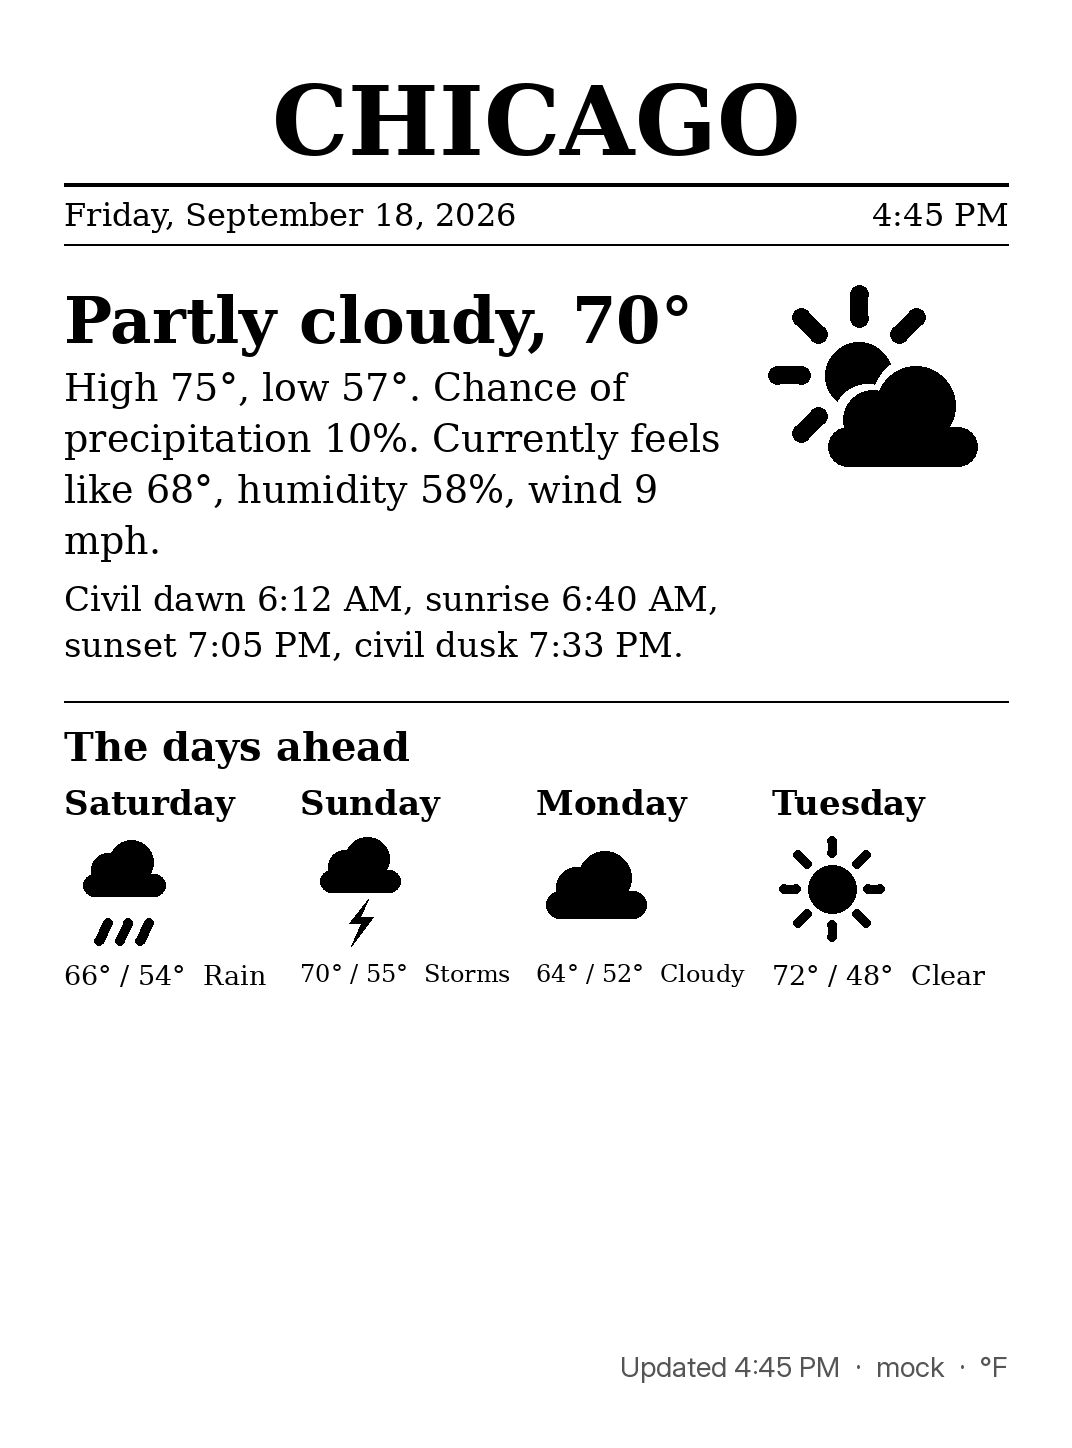
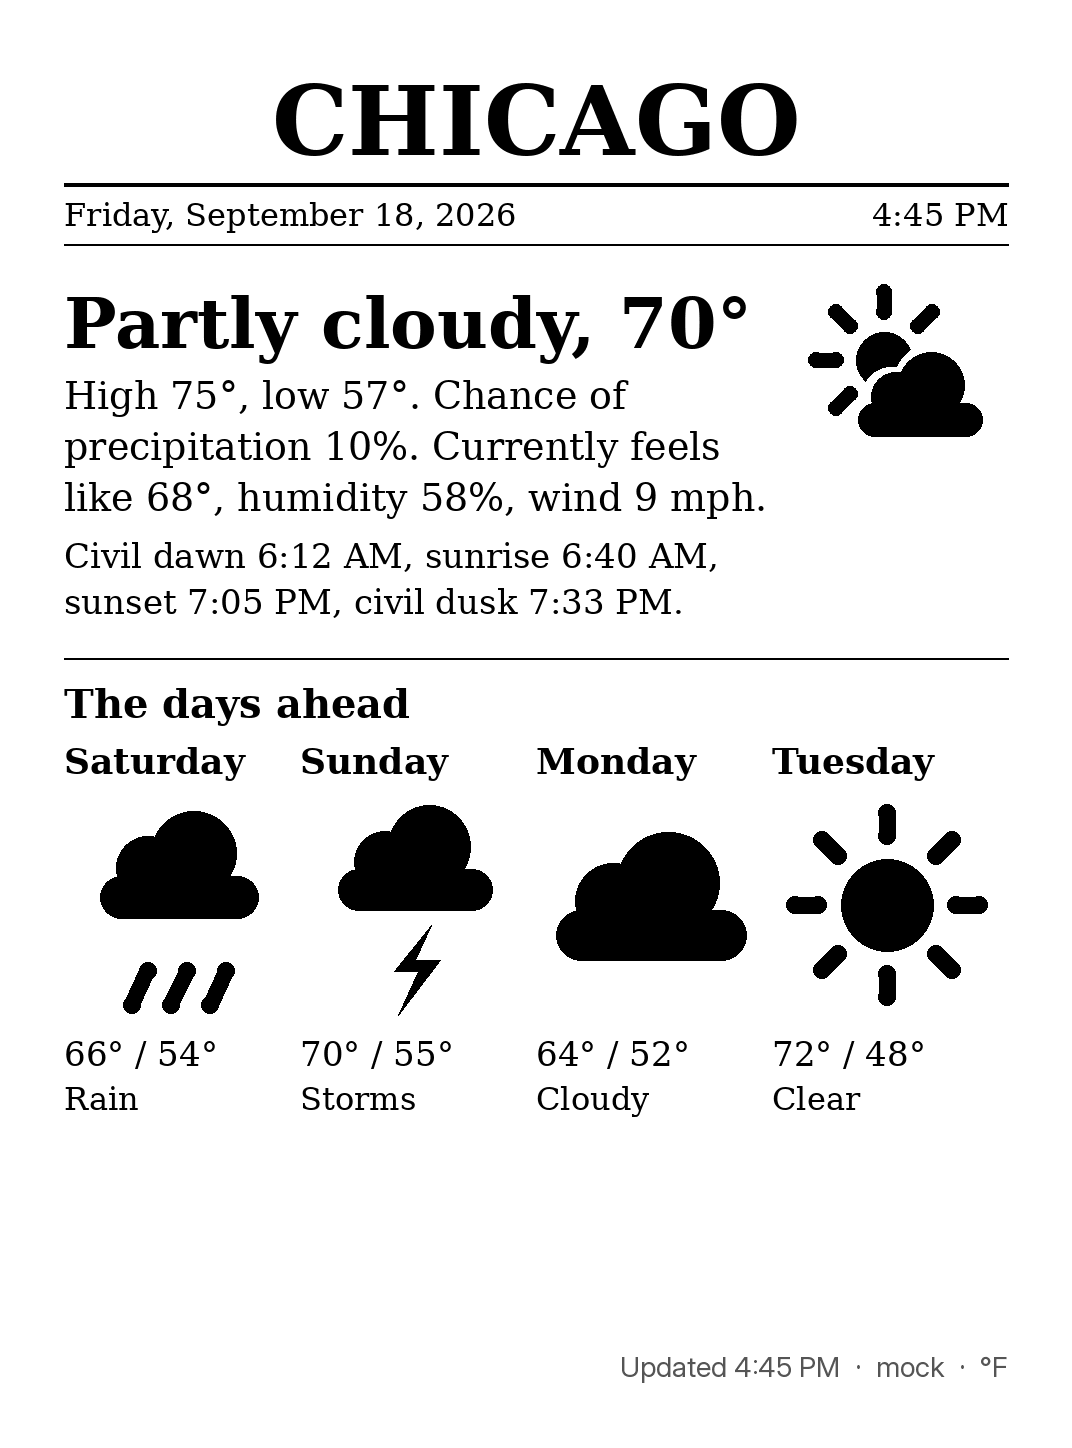
feat(skins): layout pass over weather-station, big-clock, and newspaper (#22)
* feat(skins): layout pass over weather-station, big-clock, and newspaper

weather-station: the metrics as glyph cells (Canvas.metrics_strip) instead
of the label grid, the duplicated "Feels like" line under the temperature
removed, which also uncrowds the arc in landscape. big-clock: the clock
sits higher, the weather strip and the arc take the space below, the
range reads "75° / 57°". newspaper: the "days ahead" icons grow into the
space left in portrait, and each day's range and condition get their own
lines so the columns share one type size. Goldens and README frames for
the three skins regenerated on purpose.

* fix(skins): newspaper day columns keep one line when short; footer-clearance test (review round 1)

In landscape the space under the days-ahead icons is too short for two
text lines, so range and condition share one line there as before; the
two-line layout stays in portrait. A test over every skin and orientation
asserts a white strip above the footer. README roadmap paragraph updated.

---------

diff --git a/src/paperwhite_weather/skins/newspaper.py b/src/paperwhite_weather/skins/newspaper.py
@@ -49,7 +49,7 @@ class NewspaperSkin:
         # Lead story: text column on the left, the icon on the right.
         current = snapshot.current
         today = snapshot.today
-        icon = c.px(280 if c.landscape else 240)
+        icon = c.px(280 if c.landscape else 200)
         text_w = w - icon - c.px(40)
         lead_top = y
         headline = f"{c.condition_label(current.condition)}, {c.temperature(current.temperature)}"
@@ -91,22 +91,45 @@ class NewspaperSkin:
         days = snapshot.daily[1 : _FORECAST_DAYS + 1]
         if days:
             available = c.height - m - c.px(50) - y  # leave room for the footer
-            small = max(c.px(60), min(c.px(120), available - c.px(110)))
+            # Two text lines under the icon need about 160 design px; when the space
+            # left is short (landscape), range and condition share one line instead.
+            two_lines = available >= c.px(60) + c.px(50) + c.px(160)
+            reserved = c.px(50) + (c.px(160) if two_lines else c.px(70))
+            small = max(c.px(60), min(c.px(230), available - reserved))
             column = w / len(days)
             for k, day in enumerate(days):
                 x = m + column * k
                 c.text(
-                    (x, y), f"{day.date:%A}", "serif-bold", 34, anchor="la", max_width=column * 0.95
+                    (x, y), f"{day.date:%A}", "serif-bold", 36, anchor="la", max_width=column * 0.95
                 )
-                c.icon(day.condition, (x, y + c.px(46), x + small, y + c.px(46) + small))
-                c.text(
-                    (x, y + c.px(46) + small + c.px(10)),
-                    f"{c.range_text(day)}  {c.condition_label(day.condition)}",
-                    "serif",
-                    30,
-                    anchor="la",
-                    max_width=column * 0.95,
-                )
+                c.icon(day.condition, (x, y + c.px(50), x + small, y + c.px(50) + small))
+                line_y = y + c.px(50) + small + c.px(14)
+                if two_lines:
+                    c.text(
+                        (x, line_y),
+                        c.range_text(day),
+                        "serif",
+                        34,
+                        anchor="la",
+                        max_width=column * 0.95,
+                    )
+                    c.text(
+                        (x, line_y + c.px(46)),
+                        c.condition_label(day.condition),
+                        "serif",
+                        32,
+                        anchor="la",
+                        max_width=column * 0.95,
+                    )
+                else:
+                    c.text(
+                        (x, line_y),
+                        f"{c.range_text(day)}  {c.condition_label(day.condition)}",
+                        "serif",
+                        30,
+                        anchor="la",
+                        max_width=column * 0.95,
+                    )
         c.footer()
         return c.image
 

diff --git a/src/paperwhite_weather/skins/weather_station.py b/src/paperwhite_weather/skins/weather_station.py
@@ -16,7 +16,7 @@ _FORECAST_DAYS = 4
 
 
 class WeatherStationSkin:
-    """Clock, current conditions, a metrics grid, the sun arc, and the forecast."""
+    """Clock, current conditions, the metrics as glyphs, the sun arc, and the forecast."""
 
     name: ClassVar[str] = "weather-station"
 
@@ -48,15 +48,15 @@ class WeatherStationSkin:
             right_x = m + left_w + gutter
             right_w = c.width - m - right_x
             self._current(c, m, y, left_w)
-            gy = self._grid(c, right_x, y, right_w)
-            ay = c.sun_arc((m, self._current_height(c, y), m + left_w, y + c.px(420)))
+            gy = c.metrics_strip((right_x, y + c.px(10), right_x + right_w, y + c.px(200)))
+            ay = c.sun_arc((m, self._current_height(c, y), m + left_w, y + c.px(430)))
             y2 = max(ay, gy) + c.px(30)
             y2 = c.rule(m, y2, w, LIGHT_GRAY, 2) + c.px(16)
             self._forecast(c, m, y2, w)
         else:
             self._current(c, m, y, w)
             y = self._current_height(c, y) + c.px(20)
-            y = self._grid(c, m, y, w) + c.px(30)
+            y = c.metrics_strip((m, y, c.width - m, y + c.px(200))) + c.px(30)
             y = c.sun_arc((m, y, c.width - m, y + c.px(270))) + c.px(30)
             y = c.rule(m, y, w, LIGHT_GRAY, 2) + c.px(16)
             self._forecast(c, m, y, w)
@@ -81,32 +81,9 @@ class WeatherStationSkin:
             anchor="la",
             max_width=width - icon - c.px(30),
         )
-        c.text(
-            (tx, y + c.px(205)),
-            c.feels_like_text(),
-            "regular",
-            40,
-            fill=DARK_GRAY,
-            anchor="la",
-            max_width=width - icon - c.px(30),
-        )
 
     def _current_height(self, c: Canvas, y: int) -> int:
-        return y + c.px(260)
-
-    def _grid(self, c: Canvas, x: int, y: int, width: int) -> int:
-        """Two columns of label/value cells with the optional metrics. Returns the bottom y."""
-        cells = c.metrics()
-        columns = 2
-        cell_w = width / columns
-        cell_h = c.px(96)
-        for k, (label, value) in enumerate(cells):
-            cx = x + cell_w * (k % columns)
-            cy = y + cell_h * (k // columns)
-            c.text((cx, cy), label, "regular", 30, fill=DARK_GRAY, anchor="la")
-            c.text((cx, cy + c.px(34)), value, "bold", 46, anchor="la", max_width=cell_w * 0.95)
-        rows = (len(cells) + columns - 1) // columns
-        return round(y + cell_h * rows)
+        return y + c.px(215)
 
     def _forecast(self, c: Canvas, x: int, y: int, width: int) -> None:
         """Today and the next days as temperature bars on one scale, down to the footer."""

diff --git a/src/paperwhite_weather/skins/big_clock.py b/src/paperwhite_weather/skins/big_clock.py
@@ -29,7 +29,7 @@ class BigClockSkin:
         # Clock, as large as the width allows, vertically in the upper part.
         clock = c.clock()
         clock_size = 520 if c.landscape else 360
-        clock_y = c.height * (0.36 if c.landscape else 0.30)
+        clock_y = c.height * (0.32 if c.landscape else 0.25)
         used = c.text((c.width / 2, clock_y), clock, "bold", clock_size, anchor="mm", max_width=w)
         c.text(
             (c.width / 2, clock_y + used * 0.78),
@@ -43,7 +43,7 @@ class BigClockSkin:
 
         # Weather strip: icon, temperature, condition, range; the sun arc beside it in
         # landscape, under it in portrait.
-        strip_top = c.height * (0.68 if c.landscape else 0.58)
+        strip_top = c.height * (0.62 if c.landscape else 0.50)
         c.rule(m, strip_top, w, LIGHT_GRAY, 2)
         icon_size = c.px(190)
         icon_top = strip_top + c.px(40)
@@ -68,18 +68,19 @@ class BigClockSkin:
         )
         c.text(
             (x2, icon_top + c.px(80)),
-            c.high_low(today),
+            c.range_text(today),
             "regular",
             44,
             fill=DARK_GRAY,
             anchor="la",
             max_width=text_right - x2,
         )
+        arc_bottom = c.height - m - c.px(50)
         if c.landscape:
             arc_left = c.width - m - c.px(420)
-            c.sun_arc((arc_left, strip_top + c.px(20), c.width - m, strip_top + c.px(235)))
+            c.sun_arc((arc_left, strip_top + c.px(10), c.width - m, arc_bottom))
         else:
-            arc_top = icon_top + max(icon_size, temp_size) + c.px(24)
-            c.sun_arc((m, arc_top, c.width - m, arc_top + c.px(210)))
+            arc_top = icon_top + max(icon_size, temp_size) + c.px(40)
+            c.sun_arc((m, arc_top, c.width - m, arc_bottom))
         c.footer()
         return c.image

diff --git a/tests/test_render.py b/tests/test_render.py
@@ -5,7 +5,7 @@ from datetime import datetime, timezone
 import pytest
 from PIL import Image, ImageDraw
 
-from paperwhite_weather.config import Settings
+from paperwhite_weather.config import Orientation, Settings
 from paperwhite_weather.models import WeatherSnapshot
 from paperwhite_weather.render import EINK_GRAY_LEVELS, quantize_grayscale, render_dashboard
 from paperwhite_weather.skins import available_skins, get_skin
@@ -225,3 +225,23 @@ def test_minimal_skin_handles_a_single_day_forecast(
             only_today, settings.model_copy(update={"display": display}), FIXED_NOW, size
         )
         assert image.size == size
+
+
+@pytest.mark.behaviour
+@pytest.mark.parametrize("skin", available_skins())
+@pytest.mark.parametrize("orientation", ["landscape", "portrait"])
+def test_nothing_runs_into_the_footer(
+    snapshot: WeatherSnapshot, settings: Settings, skin: str, orientation: Orientation
+) -> None:
+    """A white strip separates the footer line from whatever a skin draws above it."""
+    display = settings.display.model_copy(update={"skin": skin, "orientation": orientation})
+    width, height = display.canvas_size
+    image = get_skin(skin).compose(
+        snapshot, settings.model_copy(update={"display": display}), FIXED_NOW, (width, height)
+    )
+    margin = round(0.06 * min(width, height))
+    design = (1448, 1072) if orientation == "landscape" else (1072, 1448)
+    scale = min(width / design[0], height / design[1])
+    footer_top = height - margin - round(28 * scale) - 6  # the footer is 28 design px tall
+    strip = image.crop((width // 2, footer_top - 8, width - margin, footer_top))
+    assert strip.getextrema() == (255, 255), f"{skin} {orientation} runs into the footer"

diff --git a/src/paperwhite_weather/skins/timeline_chart.py b/src/paperwhite_weather/skins/timeline_chart.py
@@ -187,7 +187,17 @@ def draw_timeline(
             DARK_GRAY,
         )
 
-    # Hour labels, ticks, values, icons, and midnight dividers.
+    # Midnight dividers first, so the labels and values drawn next sit on top of them.
+    for k, hour in enumerate(hours):
+        local = hour.time.astimezone(tz)
+        if local.hour == 0 and k and k < count - 3:
+            x = x_of(k)
+            draw.line([(x, top), (x, bottom - label_h)], fill=DARK_GRAY, width=px(2))
+            draw.text(
+                (x + px(8), top + px(60)), f"{local:%A}", font=day_font, fill=DARK_GRAY, anchor="la"
+            )
+
+    # Hour labels, ticks, values, and icons.
     for k, hour in enumerate(hours):
         local = hour.time.astimezone(tz)
         x = x_of(k)
@@ -222,11 +232,6 @@ def draw_timeline(
                 hour.condition,
                 (round(cx - icon / 2), top, round(cx + icon / 2), top + icon),
                 night=dark(hour.time),
-            )
-        if local.hour == 0 and k and k < count - 3:
-            draw.line([(x, top), (x, bottom - label_h)], fill=DARK_GRAY, width=px(2))
-            draw.text(
-                (x + px(8), top + px(60)), f"{local:%A}", font=day_font, fill=DARK_GRAY, anchor="la"
             )
 
     # The marker for now: a vertical line and a disc on the curve.

diff --git a/tests/test_timeline_chart.py b/tests/test_timeline_chart.py
@@ -148,3 +148,21 @@ def test_value_labels_sit_clear_of_a_steep_curve(sun: SunTimes) -> None:
         assert all(v == 255 for v in column[first_white : first_white + 2]), (
             f"curve touches the label at hour {k}"
         )
+
+
+@pytest.mark.behaviour
+def test_midnight_value_label_is_drawn_over_the_divider(sun: SunTimes) -> None:
+    """A 36-hour span has a midnight inside it; the value written there stays readable."""
+    hours = _hours(36)
+    image = _render(hours, _at(16, 45), sun, (1320, 520))
+    temperatures = [h.temperature for h in hours]
+    lo, hi = min(temperatures), max(temperatures)
+    plot_left, step = 20 + 40, (1320 - 40 - 30) / 35
+    curve_top, curve_bottom = 20 + 56 + 54, 20 + 520 - 44 - 90 - 70 - 30
+    x = round(plot_left + step * 24)
+    y = round(curve_bottom - (temperatures[24] - lo) / (hi - lo) * (curve_bottom - curve_top))
+    neighbors = [temperatures[23], temperatures[25]]
+    direction = -1 if sum(neighbors) / 2 <= temperatures[24] else 1
+    column = [image.getpixel((x, y + direction * d)) for d in range(0, 70)]
+    assert 255 in column, "the divider covers the whole column"
+    assert any(v == 0 for v in column[column.index(255) :]), "no black label ink over the divider"

diff --git a/CHANGELOG.md b/CHANGELOG.md
@@ -43,6 +43,12 @@ Format: [Keep a Changelog](https://keepachangelog.com/en/1.1.0/); versioning: [S
   sunset), a divider and the weekday at midnight. Portrait shows today midnight to
   midnight with tomorrow as one row; landscape runs into tomorrow's morning with
   tomorrow in the corner. Without hourly data the skin says so instead of a chart.
+- Layout pass over three skins: `weather-station` shows the metrics as glyph cells
+  (`Canvas.metrics_strip`) instead of a label grid and no longer repeats "Feels like"
+  under the temperature, which also uncrowds the arc in landscape; `big-clock` sits the
+  clock higher, gives the weather strip and the arc the space below, and writes the
+  range as "75° / 57°"; `newspaper` grows the "days ahead" icons to the space left in
+  portrait and puts each day's range and condition on their own lines.
 - Four more skins, each with portrait and landscape layouts: `newspaper` (serif front
   page), `weather-station` (metrics grid), `big-clock`, and `forecast`. Shared drawing
   helpers in `skins/common.py`; DejaVu Serif bundled alongside DejaVu Sans.

diff --git a/README.md b/README.md
@@ -175,8 +175,9 @@ The skins are in their second pass (September 2026), with the direction **fewer 
 more pictures**: Inter and Oswald typefaces, redrawn icons with night variants, the sun
 arc, temperature bars on a shared track, and the `graphic` skin's band chart are in;
 `minimal` is the quiet end of the range and `timeline` draws the day hour by hour from
-the hourly forecast. Still to come: layout passes over `weather-station`, `big-clock`,
-and `newspaper` (which stays text-first on purpose). The
+the hourly forecast; `weather-station`, `big-clock`, and `newspaper` (which stays
+text-first on purpose) had their layout pass last. Next is the maintainer's review of
+all seven on the panel. The
 full plan, with what is done and what is open, is in [`docs/ROADMAP.md`](docs/ROADMAP.md);
 ideas are welcome as issues.
 

diff --git a/docs/ROADMAP.md b/docs/ROADMAP.md
@@ -137,7 +137,8 @@ The first versions read well; the direction is **fewer words, more pictures**.
       scale (photo of the device), unify stroke weights, and consider distinct glyphs
       for showers versus steady rain and for night (clear night, partly cloudy night)
       once the model knows whether it is night.
-- [ ] Portrait layouts leave empty space at the bottom (`newspaper`, `weather-station`);
+- [x] Portrait layouts leave empty space at the bottom (`newspaper`, `weather-station`)
+      (2026-09-20: the layout pass fills them);
       either grow the forecast or add the sun graphic there.
 
 Done: every skin renders both orientations from the mock provider and is pictured in the
